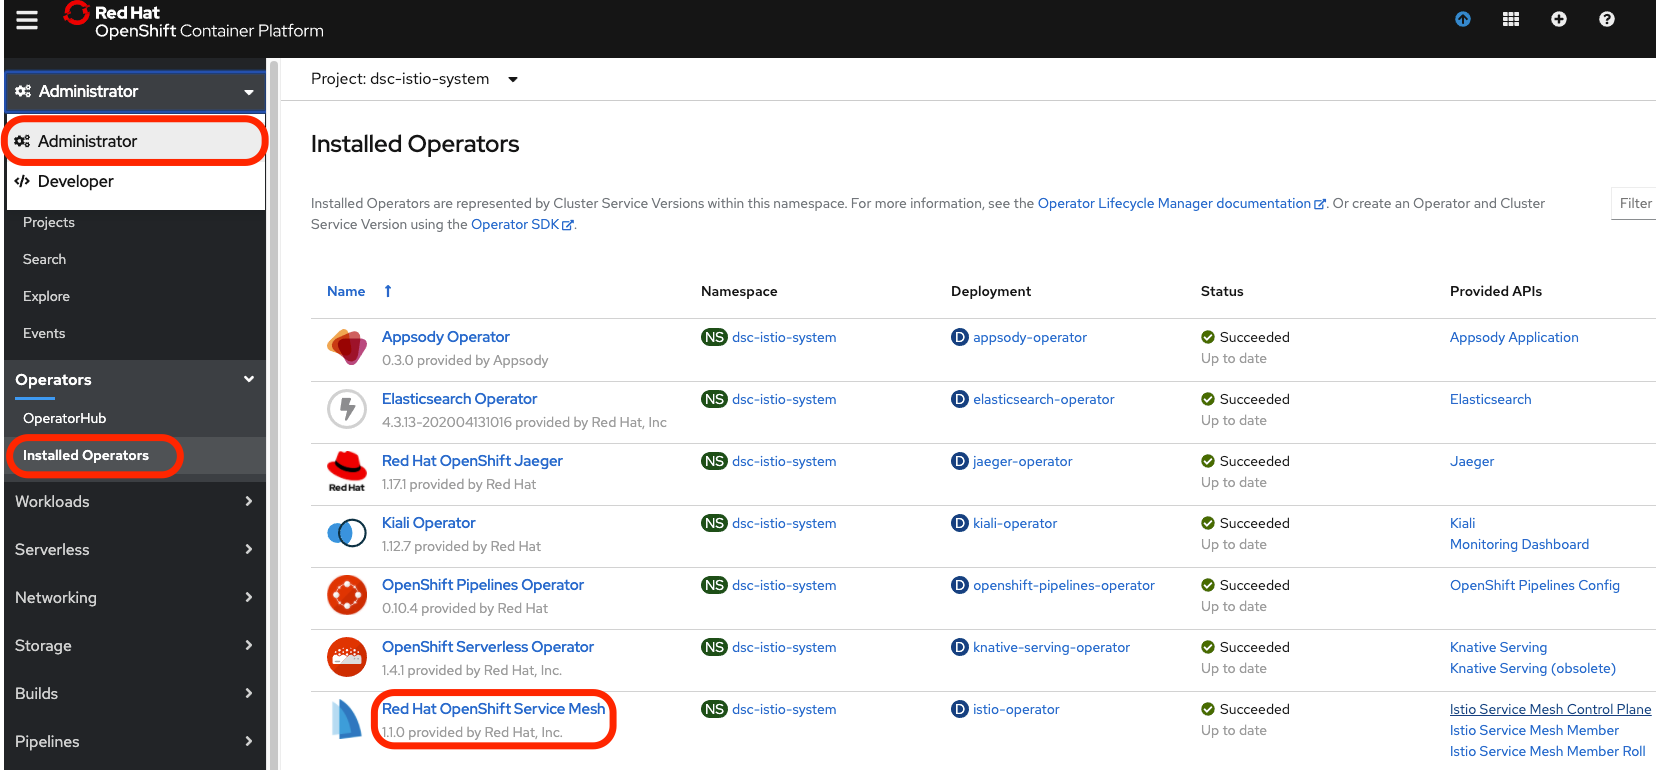
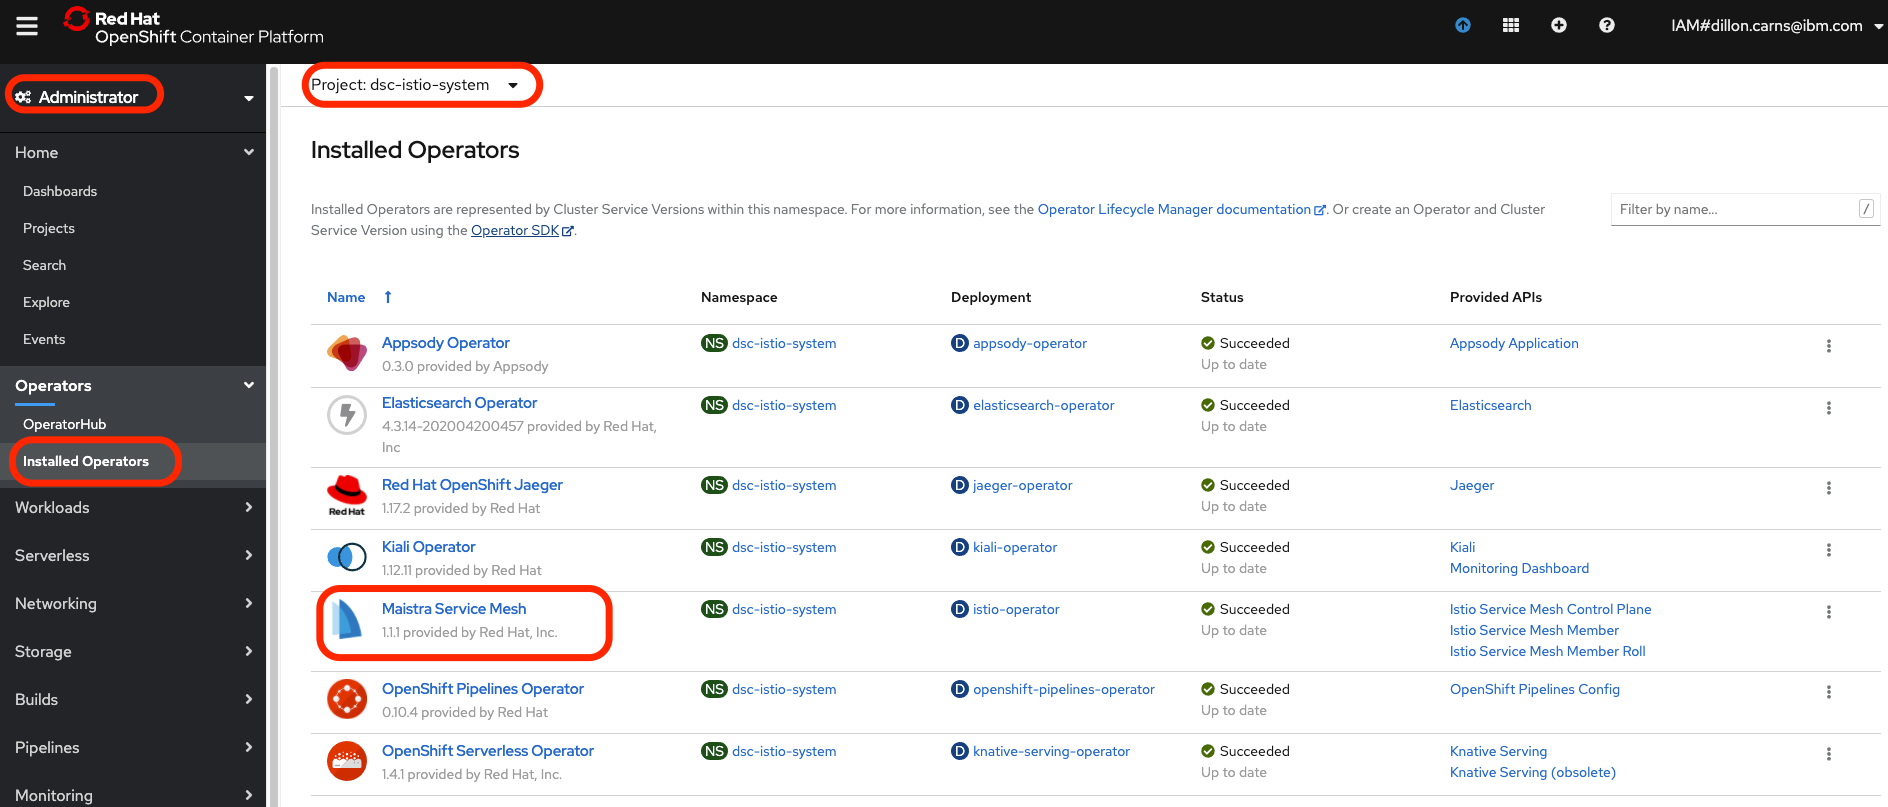
Made some edits and added highlights to show what page you're on

diff --git a/src/components/pages/ThirdPage.js b/src/components/pages/ThirdPage.js
@@ -68,10 +68,10 @@ oc apply -f configmap.yaml`} />
         </ListItem>
         <ListItem>
           <BodyText text="Istio Configuration - Virtual Services" />
-          <BodyText SM text={"Now that we have the application housekeeping out of the way, we can add some configuration for istio to route and analyze traffic to our application. First, we will setup our Virtual Services." 
-          + "Simply put, these act as the routing rules. Very similar to HAproxy configuration or other load balancer rules. " 
-          + "You also define the weights and possibly some other rules for canary testing. You can see I've put a 80/20 split on the frontend services (that we will deploy in next section) and a 90/10 on the backend."
-          + " I also specifed a virtual service that would make it so that all Firefox users would be directed to the v2 version of the frontend. Note: you can see in the selector istio key, we are using the default ingressgateway of the mesh."}/>
+          <BodyText SM text={`Now that we have the application housekeeping out of the way, we can add some configuration for istio to route and analyze traffic to our application. First, we will setup our Virtual Services. 
+          Simply put, these act as the routing rules. Very similar to HAproxy configuration or other load balancer rules. 
+          You also define the weights and possibly some other rules for canary testing. You can see I've put a 80/20 split on the frontend services (that we will deploy in next section) and a 90/10 on the backend. 
+          You can specify all sorts of rules in a virtual service, such as, making it so that all Firefox users or users from specific ips would be directed to the v2 version of the frontend. Note: you can see in the selector istio key, we are using the default ingressgateway of the mesh.`}/>
           <CodeSnip M text={
 `cat << EOF > istio_networking.yaml
 apiVersion: networking.istio.io/v1alpha3
@@ -184,8 +184,8 @@ oc apply -f istio_networking.yaml
         </ListItem>
         <ListItem>
           <BodyText text="Istio Configuration - Destination Rules" />
-          <BodyText SM text={"Next we will apply some destination rules for the routing, this is necessary for canary testing and further details how the communication " 
-            + "in the mesh works. For instance, adding mutual TLS on the services as seen in some of the rules." }/>
+          <BodyText SM text={`Next we will apply some destination rules for the routing, this is necessary for canary testing and further details how the communication " 
+            in the mesh works. For instance, adding mutual TLS on the services as seen in some of the rules.` }/>
           <CodeSnip M text={
 `cat << EOF > destination_rules.yaml
 apiVersion: networking.istio.io/v1alpha3
@@ -251,12 +251,12 @@ oc apply -f destination_rules.yaml
 `} />
         </ListItem>
         <ListItem>
-          <BodyText text="Istio Configuration - Adding Prometheus Metrics" />
-          <BodyText SM text={"We will leverage Prometheus to query for the number of requests to the frontend and backend services." 
-            + "You can then, visualize these as traffic is generated with Grafana or Kiali (which just shows the grafana data)."
-            + "Each service requires it's own metric (instance) resource as well as a rule. However, the rules can reference the same handler resource for prometheus " 
-            + "to handle the rule execution as depicted in the spec.actions.handler of the rule yaml below. "
-            + "Note: The metrics are applied to the application project, while the rule and prometheus resources are applied to the mesh project." } />
+          <BodyText text="Istio Configuration - Adding Metrics and a Prometheus Handler" />
+          <BodyText SM text={`We will leverage Prometheus to query for some basic request data on the frontend and backend services. 
+            You can then, visualize these as traffic is generated with Grafana or Kiali (which just shows data similar to grafana). 
+            Each service requires it's own metric (instance) resource as well as a rule. However, the rules can reference the same handler resource for prometheus 
+            to handle the rule execution as depicted in the spec.actions.handler of the rule yaml below. 
+            Note: The metrics are applied to the application project, while the rule and prometheus resources are applied to the mesh project.` } />
           <CodeSnip M text={
 `cat << EOF > metrics.yaml
 apiVersion: "config.istio.io/v1alpha2"
@@ -335,11 +335,11 @@ oc apply -f metrics.yaml`} />
         </ListItem>
         <ListItem>
           <BodyText text="Summary" />
-          <BodyText SM text={"Well done for making it this far! Istio is configured and ready for our application! " 
-            + "We first started with some housekeeping and adding some values to be used for our application, basic kubernetes stuff. "
-            + "Then we added a gateway and some virtual services in order to control traffic into our ingress gateway, much like that of a load balancer. " 
-            + "Next the configuration of destination rules were made in order to specify traffic subsets and policy with mutual tls, which allows for service to service authentication without having to really do much on our part, nifty! "
-            + "Finally, we laid the foundation of the prometheus derived metrics and rules for futre analysis of traffic into our application."} />
+          <BodyText SM text={`Well done for making it this far! Istio is configured and ready for our application! 
+            We first started with some housekeeping and adding some values to be used for our application, basic kubernetes stuff. 
+            Then we added a gateway and some virtual services in order to control traffic into our ingress gateway, much like that of a load balancer. 
+            Next the configuration of destination rules were made in order to specify traffic subsets and policy with mutual tls, which allows for service to service authentication without having to really do much on our part, nifty! 
+            Finally, we laid the foundation of the prometheus derived metrics and rules for futre analysis of traffic into our application.`} />
         </ListItem>
       </UnorderedList>
   </Content>

diff --git a/build/index.html b/build/index.html
@@ -1,1 +1,1 @@
-<!doctype html><html lang="en"><head><meta charset="utf-8"/><link rel="icon" href="/RedHatServiceMeshTutorial/favicon.ico"/><meta name="viewport" content="width=device-width,initial-scale=1"/><meta name="theme-color" content="#000000"/><meta name="description" content="Web site created using create-react-app"/><link rel="apple-touch-icon" href="/RedHatServiceMeshTutorial/logo192.png"/><link rel="manifest" href="/RedHatServiceMeshTutorial/manifest.json"/><title>React App</title><link href="/RedHatServiceMeshTutorial/static/css/main.e5ef9ae8.chunk.css" rel="stylesheet"></head><body><noscript>You need to enable JavaScript to run this app.</noscript><div id="root"></div><script>!function(e){function t(t){for(var n,i,l=t[0],a=t[1],c=t[2],p=0,s=[];p<l.length;p++)i=l[p],Object.prototype.hasOwnProperty.call(o,i)&&o[i]&&s.push(o[i][0]),o[i]=0;for(n in a)Object.prototype.hasOwnProperty.call(a,n)&&(e[n]=a[n]);for(f&&f(t);s.length;)s.shift()();return u.push.apply(u,c||[]),r()}function r(){for(var e,t=0;t<u.length;t++){for(var r=u[t],n=!0,l=1;l<r.length;l++){var a=r[l];0!==o[a]&&(n=!1)}n&&(u.splice(t--,1),e=i(i.s=r[0]))}return e}var n={},o={1:0},u=[];function i(t){if(n[t])return n[t].exports;var r=n[t]={i:t,l:!1,exports:{}};return e[t].call(r.exports,r,r.exports,i),r.l=!0,r.exports}i.m=e,i.c=n,i.d=function(e,t,r){i.o(e,t)||Object.defineProperty(e,t,{enumerable:!0,get:r})},i.r=function(e){"undefined"!=typeof Symbol&&Symbol.toStringTag&&Object.defineProperty(e,Symbol.toStringTag,{value:"Module"}),Object.defineProperty(e,"__esModule",{value:!0})},i.t=function(e,t){if(1&t&&(e=i(e)),8&t)return e;if(4&t&&"object"==typeof e&&e&&e.__esModule)return e;var r=Object.create(null);if(i.r(r),Object.defineProperty(r,"default",{enumerable:!0,value:e}),2&t&&"string"!=typeof e)for(var n in e)i.d(r,n,function(t){return e[t]}.bind(null,n));return r},i.n=function(e){var t=e&&e.__esModule?function(){return e.default}:function(){return e};return i.d(t,"a",t),t},i.o=function(e,t){return Object.prototype.hasOwnProperty.call(e,t)},i.p="/RedHatServiceMeshTutorial/";var l=this["webpackJsonpservice-mesh-tut"]=this["webpackJsonpservice-mesh-tut"]||[],a=l.push.bind(l);l.push=t,l=l.slice();for(var c=0;c<l.length;c++)t(l[c]);var f=a;r()}([])</script><script src="/RedHatServiceMeshTutorial/static/js/2.78e3c2d3.chunk.js"></script><script src="/RedHatServiceMeshTutorial/static/js/main.4d9a42c0.chunk.js"></script></body></html>
+<!doctype html><html lang="en"><head><meta charset="utf-8"/><link rel="icon" href="/RedHatServiceMeshTutorial/favicon.ico"/><meta name="viewport" content="width=device-width,initial-scale=1"/><meta name="theme-color" content="#000000"/><meta name="description" content="Web site created from CPAT organization within IBM to demonstrate some capabilities of Red Hat Service Mesh."/><meta name="author" content="Dillon Carns"/><link rel="apple-touch-icon" href="/RedHatServiceMeshTutorial/logo192.png"/><link rel="manifest" href="/RedHatServiceMeshTutorial/manifest.json"/><title>Red Hat Service Mesh Tutorial</title><link href="/RedHatServiceMeshTutorial/static/css/main.e5ef9ae8.chunk.css" rel="stylesheet"></head><body><noscript>You need to enable JavaScript to run this app.</noscript><div id="root"></div><script>!function(e){function t(t){for(var n,i,l=t[0],a=t[1],c=t[2],p=0,s=[];p<l.length;p++)i=l[p],Object.prototype.hasOwnProperty.call(o,i)&&o[i]&&s.push(o[i][0]),o[i]=0;for(n in a)Object.prototype.hasOwnProperty.call(a,n)&&(e[n]=a[n]);for(f&&f(t);s.length;)s.shift()();return u.push.apply(u,c||[]),r()}function r(){for(var e,t=0;t<u.length;t++){for(var r=u[t],n=!0,l=1;l<r.length;l++){var a=r[l];0!==o[a]&&(n=!1)}n&&(u.splice(t--,1),e=i(i.s=r[0]))}return e}var n={},o={1:0},u=[];function i(t){if(n[t])return n[t].exports;var r=n[t]={i:t,l:!1,exports:{}};return e[t].call(r.exports,r,r.exports,i),r.l=!0,r.exports}i.m=e,i.c=n,i.d=function(e,t,r){i.o(e,t)||Object.defineProperty(e,t,{enumerable:!0,get:r})},i.r=function(e){"undefined"!=typeof Symbol&&Symbol.toStringTag&&Object.defineProperty(e,Symbol.toStringTag,{value:"Module"}),Object.defineProperty(e,"__esModule",{value:!0})},i.t=function(e,t){if(1&t&&(e=i(e)),8&t)return e;if(4&t&&"object"==typeof e&&e&&e.__esModule)return e;var r=Object.create(null);if(i.r(r),Object.defineProperty(r,"default",{enumerable:!0,value:e}),2&t&&"string"!=typeof e)for(var n in e)i.d(r,n,function(t){return e[t]}.bind(null,n));return r},i.n=function(e){var t=e&&e.__esModule?function(){return e.default}:function(){return e};return i.d(t,"a",t),t},i.o=function(e,t){return Object.prototype.hasOwnProperty.call(e,t)},i.p="/RedHatServiceMeshTutorial/";var l=this["webpackJsonpservice-mesh-tut"]=this["webpackJsonpservice-mesh-tut"]||[],a=l.push.bind(l);l.push=t,l=l.slice();for(var c=0;c<l.length;c++)t(l[c]);var f=a;r()}([])</script><script src="/RedHatServiceMeshTutorial/static/js/2.78e3c2d3.chunk.js"></script><script src="/RedHatServiceMeshTutorial/static/js/main.4d9a42c0.chunk.js"></script></body></html>

diff --git a/src/App.js b/src/App.js
@@ -56,15 +56,15 @@ class App extends React.Component {
           isChildOfHeader={false}
           aria-label="Side navigation"
         >
-          <SideNavLink onClick={() => this.changePage({page: 1})} renderIcon={Fade16}>Welcome</SideNavLink>
-          <SideNavLink onClick={() => this.changePage({page: 2})} renderIcon={Fade16}>Setup</SideNavLink>
-          <SideNavLink onClick={() => this.changePage({page: 3})} renderIcon={Fade16}>Configuration</SideNavLink>
-          <SideNavLink onClick={() => this.changePage({page: 4})} renderIcon={Fade16}>Installation</SideNavLink>
-          <SideNavLink onClick={() => this.changePage({page: 5})} renderIcon={Fade16}>Using Kiali</SideNavLink>
-          <SideNavLink onClick={() => this.changePage({page: 6})} renderIcon={Fade16}>Grafana</SideNavLink>
-          <SideNavLink onClick={() => this.changePage({page: 7})} renderIcon={Fade16}>Distributed Tracing</SideNavLink>
-          <SideNavLink onClick={() => this.changePage({page: 8})} renderIcon={Fade16}>Egress</SideNavLink>
-          <SideNavLink onClick={() => this.changePage({page: 9})} renderIcon={Fade16}>Contact</SideNavLink>
+          <SideNavLink style={this.state.view === 1 ? {backgroundColor: "rgb(0, 153, 255)" } : null } onClick={() => this.changePage({page: 1})} renderIcon={Fade16}>Welcome</SideNavLink>
+          <SideNavLink style={this.state.view === 2 ? {backgroundColor: "rgb(0, 153, 255)" } : null } onClick={() => this.changePage({page: 2})} renderIcon={Fade16}>Setup</SideNavLink>
+          <SideNavLink style={this.state.view === 3 ? {backgroundColor: "rgb(0, 153, 255)" } : null } onClick={() => this.changePage({page: 3})} renderIcon={Fade16}>Configuration</SideNavLink>
+          <SideNavLink style={this.state.view === 4 ? {backgroundColor: "rgb(0, 153, 255)" } : null } onClick={() => this.changePage({page: 4})} renderIcon={Fade16}>Installation</SideNavLink>
+          <SideNavLink style={this.state.view === 5 ? {backgroundColor: "rgb(0, 153, 255)" } : null } onClick={() => this.changePage({page: 5})} renderIcon={Fade16}>Using Kiali</SideNavLink>
+          <SideNavLink style={this.state.view === 6 ? {backgroundColor: "rgb(0, 153, 255)" } : null } onClick={() => this.changePage({page: 6})} renderIcon={Fade16}>Grafana</SideNavLink>
+          <SideNavLink style={this.state.view === 7 ? {backgroundColor: "rgb(0, 153, 255)" } : null } onClick={() => this.changePage({page: 7})} renderIcon={Fade16}>Distributed Tracing</SideNavLink>
+          <SideNavLink style={this.state.view === 8 ? {backgroundColor: "rgb(0, 153, 255)" } : null } onClick={() => this.changePage({page: 8})} renderIcon={Fade16}>Egress</SideNavLink>
+          <SideNavLink style={this.state.view === 9 ? {backgroundColor: "rgb(0, 153, 255)" } : null } onClick={() => this.changePage({page: 9})} renderIcon={Fade16}>Contact</SideNavLink>
 
         </SideNav>
         <PageSwitcher page={this.state.view} />

diff --git a/src/components/pages/SixthPage.js b/src/components/pages/SixthPage.js
@@ -54,17 +54,19 @@ const SixthPage = () => (
         </ListItem>
         <ListItem>
           <BodyText text="Looking at the Istio Workloads Dashboard" />
-          <Image path={IMG6} text="Image of Istio Workload Dashboard in Grafana" />
-          <BodyText SM text={`In this dashboard, we can see the telemetry of all that istio covers for us. In the image below you see a legend assigning 
-          different colors to some of the different services. You may view all sorts of different metrics that istio provides out of the box for these services by scrolling 
+          <BodyText SM text={`In this dashboard, we can see the telemetry of all that istio/the service mesh is covering for us. In the image below you see a legend assigning 
+          different colors to some of the different services, these colors are tracked in the graph to represent the metric data for the corresponding service. You'll have to scroll down 
+          a little yourself to get the full effect. You may view all sorts of different metrics that istio provides out of the box for these services by scrolling 
           down on the dashboard. This visualization representation of your metrics is the main cause for Grafana. You can potentially add custom metrics with Prometheus or otherwise
            and monitor them here as well, but that's a little out of scope for now. Maybe in the future that will be an added section.`} />
+          <Image path={IMG6} text="Image of Istio Workload Dashboard in Grafana" />
         </ListItem>
         <ListItem>
           <BodyText text="Summary" />
-          <BodyText SM text={`Grafana is a customizable dashboard tool for visualizing metrics of your application/workload and has a lot of cool features. 
+          <BodyText SM text={`Grafana is a customizable dashboard tool for visualizing metrics of your application/workload and has a lot of cool features. Lucky for us, the Service Mesh/Istio 
+          creates a few default dashboards for us so we can view a lot of useful metrics without having to know all the ins and outs of Grafana.
           It is definitely handy for checking when/where potentially erroneus network requests/responses are happening in your application. It's also 
-          built into Red Hat Service Mesh, so definitely good to be familiar with navigating at least. Feel free to learn more at the link below:`} />
+          built into the Service Mesh, so definitely good to be familiar with navigating at least. Feel free to learn more at the link below:`} />
           <UnorderedList nested>
             <ListItem><a rel="noopener noreferrer" href={'https://grafana.com/tutorials/'} target='_blank'>Link for Grafana tutorial.</a></ListItem>
           </UnorderedList>

diff --git a/src/components/pages/SeventhPage.js b/src/components/pages/SeventhPage.js
@@ -67,9 +67,13 @@ const SeventhPage = () => (
         </ListItem>
         <ListItem>
           <BodyText text="Summary" />
-          <BodyText SM text={`In this section we touched on the importance of Distributed Tracing. How to navigate to the Jaeger UI, which comes with any current installation of Red Hat Service Mesh. 
+          <BodyText SM text={`In this section we touched on the importance of Distributed Tracing. How to navigate to the Jaeger UI, which comes with any current installation of the Maistra Service Mesh. 
           Then some brief explanation in querying for the default traces included with the istio proxy envoys that are injected into our pods. We also mentioned the existence of OpenTracing APIs that 
-          can allow you to include custom traces in your code if the defaults don't include all the information desired. Then you could query for and view those in the Jaeger UI as well.`} />
+          can allow you to include custom traces in your code if the defaults don't include all the information desired. Then you could query for and view those in the Jaeger UI as well. 
+          Feel free to familiarize yourself or learn more about OpenTracing below:`} />
+          <UnorderedList nested>
+            <ListItem><a rel="noopener noreferrer" href={'https://opentracing.io/docs/getting-started/tutorials/'} target='_blank'>Link for OpenTracing tutorial.</a></ListItem>
+          </UnorderedList>
         </ListItem>
       </UnorderedList>
   </Content>

diff --git a/src/components/pages/FourthPage.js b/src/components/pages/FourthPage.js
@@ -514,8 +514,8 @@ oc apply -f frontend_service.yaml`} />
           <Image path={IMG1} text="how to grab the right ingress route" />
           <BodyText SM text="Copy that text and navigate there in the browser, alternatively you can grab the route within the cluster in the mesh project." />
           <Image path={IMG2} text="Working App proof." />
-          <BodyText B SM text="If you see similar to the above and are able to create and account and mess around, then congratulate yourself, you've got it working properly!" />
-          <BodyText SM text="Also if you want to check and see if it's setup properly without going into the browser you can run the following command and just check that each running pod has 2 containers. This would indicate that the istio sidecar injection (envoy proxy) was successful." />
+          <BodyText B SM text="If you see similar to the above and are able to create an account and mess around, then congratulate yourself, you've got it working properly!" />
+          <BodyText SM text="Another thing to check and see if it's setup properlym run the following command and just check that each running pod has 2 containers. This would indicate that the istio sidecar injection (envoy proxy) was successful." />
           <CodeSnip text="oc get pods"/>
           <Image path={IMG3} text="Proof 2 of working application." />
         </ListItem>

diff --git a/src/components/pages/NinthPage.js b/src/components/pages/NinthPage.js
@@ -18,7 +18,7 @@ const NinthPage = () => (
                 <BodyText text="Quick Thanks" />
                 <BodyText SM text={`Thank you to Mary Crivelli for helping with this tutorial and helping create the demo frontend. Thanks to Dennis Mila for helping create the demo application. Thank you to Jon Woodlief for some troubleshooting of ServiceMesh early on and also 
                 for testing the tutorial, as well as Naod Deribe for his testing efforts as well. Thanks to Dave Mulley for the opportunity to explore this OpenShift feature and create this tutorial 
-                under the guidance of GSE within IBM. Also, thank you for taking the time to run through the tutorial and I hope I helped at least a little bit learn more about Red Hat OpenShift Service Mesh.`} />
+                under the guidance of GSE within IBM. A big Thanks to CPAT for the opportunity given here to learn about these cloud native solutions like Service Mesh. Finally, thank YOU for taking the time to run through the tutorial and I hope I helped at least a little bit learn more about Red Hat OpenShift - Maistra Service Mesh.`} />
             </ListItem>
         </UnorderedList>
     </Content>

diff --git a/public/index.html b/public/index.html
@@ -7,7 +7,7 @@
     <meta name="theme-color" content="#000000" />
     <meta
       name="description"
-      content="Web site created from CPAT organization within IBM to demonstrate some capabilities of Red Hat Service Mesh."
+      content="Web site created from CPAT organization within IBM to demonstrate some capabilities of the Maistra Service Mesh on Red Hat OpenShift."
     />
     <meta name="author" content="Dillon Carns" />
     <link rel="apple-touch-icon" href="%PUBLIC_URL%/logo192.png" />
@@ -25,7 +25,7 @@
       work correctly both with client-side routing and a non-root public URL.
       Learn how to configure a non-root public URL by running `npm run build`.
     -->
-    <title>Red Hat Service Mesh Tutorial</title>
+    <title>Red Hat OpenShift - Maistra Service Mesh Tutorial</title>
   </head>
   <body>
     <noscript>You need to enable JavaScript to run this app.</noscript>

diff --git a/src/components/pages/HomePage.js b/src/components/pages/HomePage.js
@@ -22,7 +22,7 @@ const HomePage = () => (
             <ListItem><a rel="noopener noreferrer" href={'https://docs.openshift.com/container-platform/3.6/cli_reference/get_started_cli.html'} target='_blank'>Link for CLI download if needed.</a></ListItem>
           </UnorderedList>
           <ListItem><BodyText SM B text='Openshift cluster (4.X preferred)' /></ListItem>
-          <ListItem><BodyText SM B text='Red Hat Service Mesh installed'/></ListItem>
+          <ListItem><BodyText SM B text='Red Hat (Maistra) Service Mesh installed'/></ListItem>
           <UnorderedList nested>
             <ListItem><a rel="noopener noreferrer" href={'https://docs.openshift.com/container-platform/4.3/service_mesh/service_mesh_install/preparing-ossm-installation.html'} target='_blank'>Link for installation guide if needed.</a></ListItem>
           </UnorderedList>

diff --git a/src/components/pages/SecondPage.js b/src/components/pages/SecondPage.js
@@ -52,7 +52,7 @@ export APP_PROJ="$INITIALS-application"
           <Image path={IMG} text='Switching to istio-system proj.' />
         </ListItem>
         <ListItem>
-          <BodyText text={`Switch to the Administrator role and navigate to Installed Operators and click on the "Red Hat OpenShift Service Mesh" operator link.`}/>
+          <BodyText text={`Switch to the Administrator role and navigate to Installed Operators and click on the "Red Hat OpenShift Service Mesh" or "Maistra Service Mesh" (same thing) operator link.`}/>
           <Image path={IMG2} text='Selecting correct operator' />
         </ListItem>
         <ListItem>

diff --git a/src/components/header/AppHeader.js b/src/components/header/AppHeader.js
@@ -6,9 +6,9 @@ import {
   HeaderGlobalBar,
 } from "carbon-components-react/es/components/UIShell";
 const AppHeader = () => (
-  <Header aria-label="Red Hat Service Mesh Tutorial">
-    <HeaderName href="/" prefix="IBM CPAT">
-      Red Hat Service Mesh Tutorial
+  <Header aria-label="Red Hat OpenShift Service Mesh Tutorial">
+    <HeaderName href="/" prefix="IBM">
+      Red Hat OpenShift - Maistra Service Mesh Tutorial
     </HeaderName>
     <HeaderGlobalBar />
   </Header>

diff --git a/build/service-worker.js b/build/service-worker.js
@@ -14,7 +14,7 @@
 importScripts("https://storage.googleapis.com/workbox-cdn/releases/4.3.1/workbox-sw.js");
 
 importScripts(
-  "/RedHatServiceMeshTutorial/precache-manifest.e61d5e7ab0526d6caf33cc5a020cb868.js"
+  "/RedHatServiceMeshTutorial/precache-manifest.eb1837d6bcee88f6ca58ab025f58df91.js"
 );
 
 self.addEventListener('message', (event) => {
